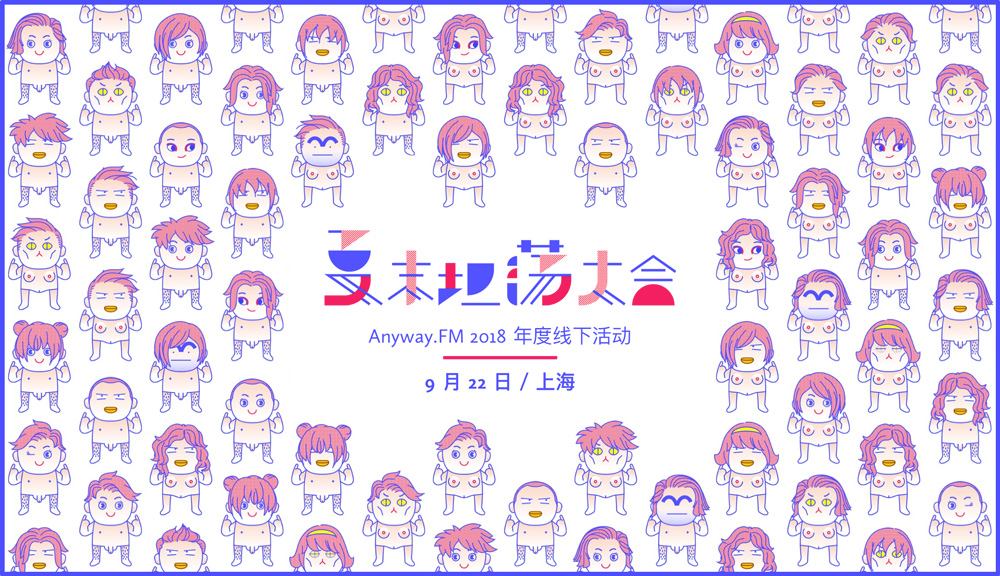
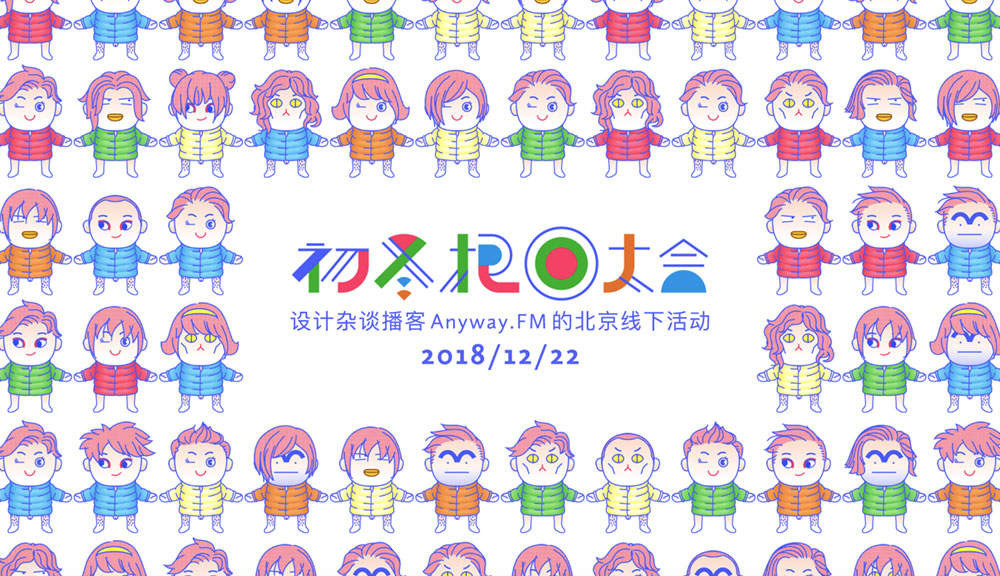
首次发布

diff --git a/index.html b/index.html
@@ -10,20 +10,20 @@
 	<link rel="stylesheet" href="assets/winter.css" />
 	<script src="assets/vue.js"></script>
 
-	<link rel="apple-touch-icon" href="https://s.anw.red/2018-party/large-icon.png">
+	<link rel="apple-touch-icon" href="https://s.anw.red/2018-winter-party/large-icon.png">
 	<link rel="icon" href="assets/favicon.png">
 
-	<meta property="og:url" content="https://Anyway.FM/party">
+	<meta property="og:url" content="https://Anyway.FM/winter-party">
 	<meta property="og:type" content="website">
 	<meta property="og:title" content="Anyway.FM 初冬抱团大会">
 	<meta property="og:description" content="2018 年度 Anyway.FM 北京线下活动~">
-	<meta property="og:image" content="https://s.anw.red/2018-party/header.png">
+	<meta property="og:image" content="https://s.anw.red/2018-winter-party/preview.jpg">
 
 	<meta name="twitter:card" content="summary_large_image" />
 	<meta name="twitter:description" content="2018 年度 Anyway.FM 北京线下活动~" />
 	<meta name="twitter:title" content="Anyway.FM 初冬抱团大会" />
 	<meta name="twitter:site" content="@anyway__fm" />
-	<meta name="twitter:image" content="https://s.anw.red/2018-party/header.png" />
+	<meta name="twitter:image" content="https://s.anw.red/2018-winter-party/preview.jpg" />
 
 </head>
 <body>
@@ -43,7 +43,7 @@
 							<li><a @click="popUp('3')" class="btn more-info-3">活动内容 ↝</a></li>
 						</ul>
 
-						<div class="buy"><a href="https://wx.duohui.co/event/5543" target="_blank" class="btn">立即购票 ↝</a></div>
+						<div class="buy"><a href="https://wx.duohui.co/event/6276" target="_blank" class="btn">立即购票 ↝</a></div>
 
 					</div>
 				</div>

diff --git a/assets/main.js b/assets/main.js
@@ -38,11 +38,11 @@ var g = new Vue({
         this.popupContent = "设计杂谈播客 Anyway.FM 的<span>北京线下活动</span>"
       }
       switch (a) {
-        case '1': this.popupContent += "，<em><strong>时间</strong>定于 9 月 22 日下午 2:00 - 6:00</em>"
+        case '1': this.popupContent += "，<em><strong>时间</strong>定于 12 月 22 日下午 2:00 - 6:00</em>"
           break
-        case '2': this.popupContent += "，<em><strong>地点</strong>在上海市徐家汇地铁站附近的「源咖啡」</em>"
+        case '2': this.popupContent += "，<em><strong>地点</strong>在望京的 8KM COFFEE</em>"
           break
-        case '3': this.popupContent += "，<em><strong>内容</strong>包括：主播们的「坦荡」分享 / 问答沙龙 / 吃蛋糕 / 到场嘉宾：ARK 创新咨询联合创始人滕磊</em>"
+        case '3': this.popupContent += "，<em><strong>内容</strong>包括：主播们的「抱团」分享 / 问答沙龙 / 新产品发布 / 到场嘉宾：请允许我吗按北京站惯例保持神秘~</em>"
           break
         default:
 

diff --git a/assets/winter.css b/assets/winter.css
@@ -74,7 +74,6 @@ main {
 .people div{
 	background-size: contain;
 }
-.hand{background-image: url(hand.png);}
 .eye{z-index: 3;}
 .hair{z-index: 4;}
 .mask{z-index: 5;}
@@ -378,12 +377,11 @@ main {
 }
 @keyframes ani-h {
 	0%{transform: none;}
-	/* 70%{filter: blur(1px);} */
 	99%{opacity: 1;}
 	100%{transform: translateY(-220%)scale(.6);opacity: 0;}
 }
 /* 别戳我 */
-..ani-9 .mask{
+.ani-9 .mask{
 	z-index: 99;
 	position: absolute;
 	background: #fff;
@@ -399,13 +397,13 @@ main {
 	transition: .1s ease-out;
 	display: none;
 }
-..ani-9:hover .mask,
-..ani-9:active .mask{
+.ani-9:hover .mask,
+.ani-9:active .mask{
 	transform: none;
 	opacity: 1;
 	display: block;
 }
-..ani-9 .mask::before{
+.ani-9 .mask::before{
 	content: "别戳我";
 	font-size: .5rem;
 	color: #4c4bfe;

diff --git a/gulpfile.js b/gulpfile.js
@@ -3,11 +3,7 @@ var gulp = require('gulp'), gulpLoadPlugins = require('gulp-load-plugins'), plug
 var cdnUrl = [
 	// [ 'assets/', 'https://s.anw.red/' ],
 	[	'assets/vue.js', 'https://s.anw.red/js/vue.min.js' ],
-	[	'assets/', 'https://s.anw.red/2018-party/' ]
-];
-
-var cssProcess = [
-	[	'/* animation: body-show .2s ease-out 9.6s both; */', 'animation: body-show .2s ease-out 9.6s both;' ]
+	[	'assets/', 'https://s.anw.red/2018-winter-party/' ]
 ];
 
 gulp.task('default', function() {
@@ -32,7 +28,6 @@ gulp.task('default', function() {
     .pipe(gulp.dest('builds'))
 
 	gulp.src('assets/*.css')
-		.pipe(plugins.batchReplace(cssProcess))
   	.pipe(plugins.cleanCss({compatibility: 'ie8'}))
     .pipe(gulp.dest('builds'));
 });
